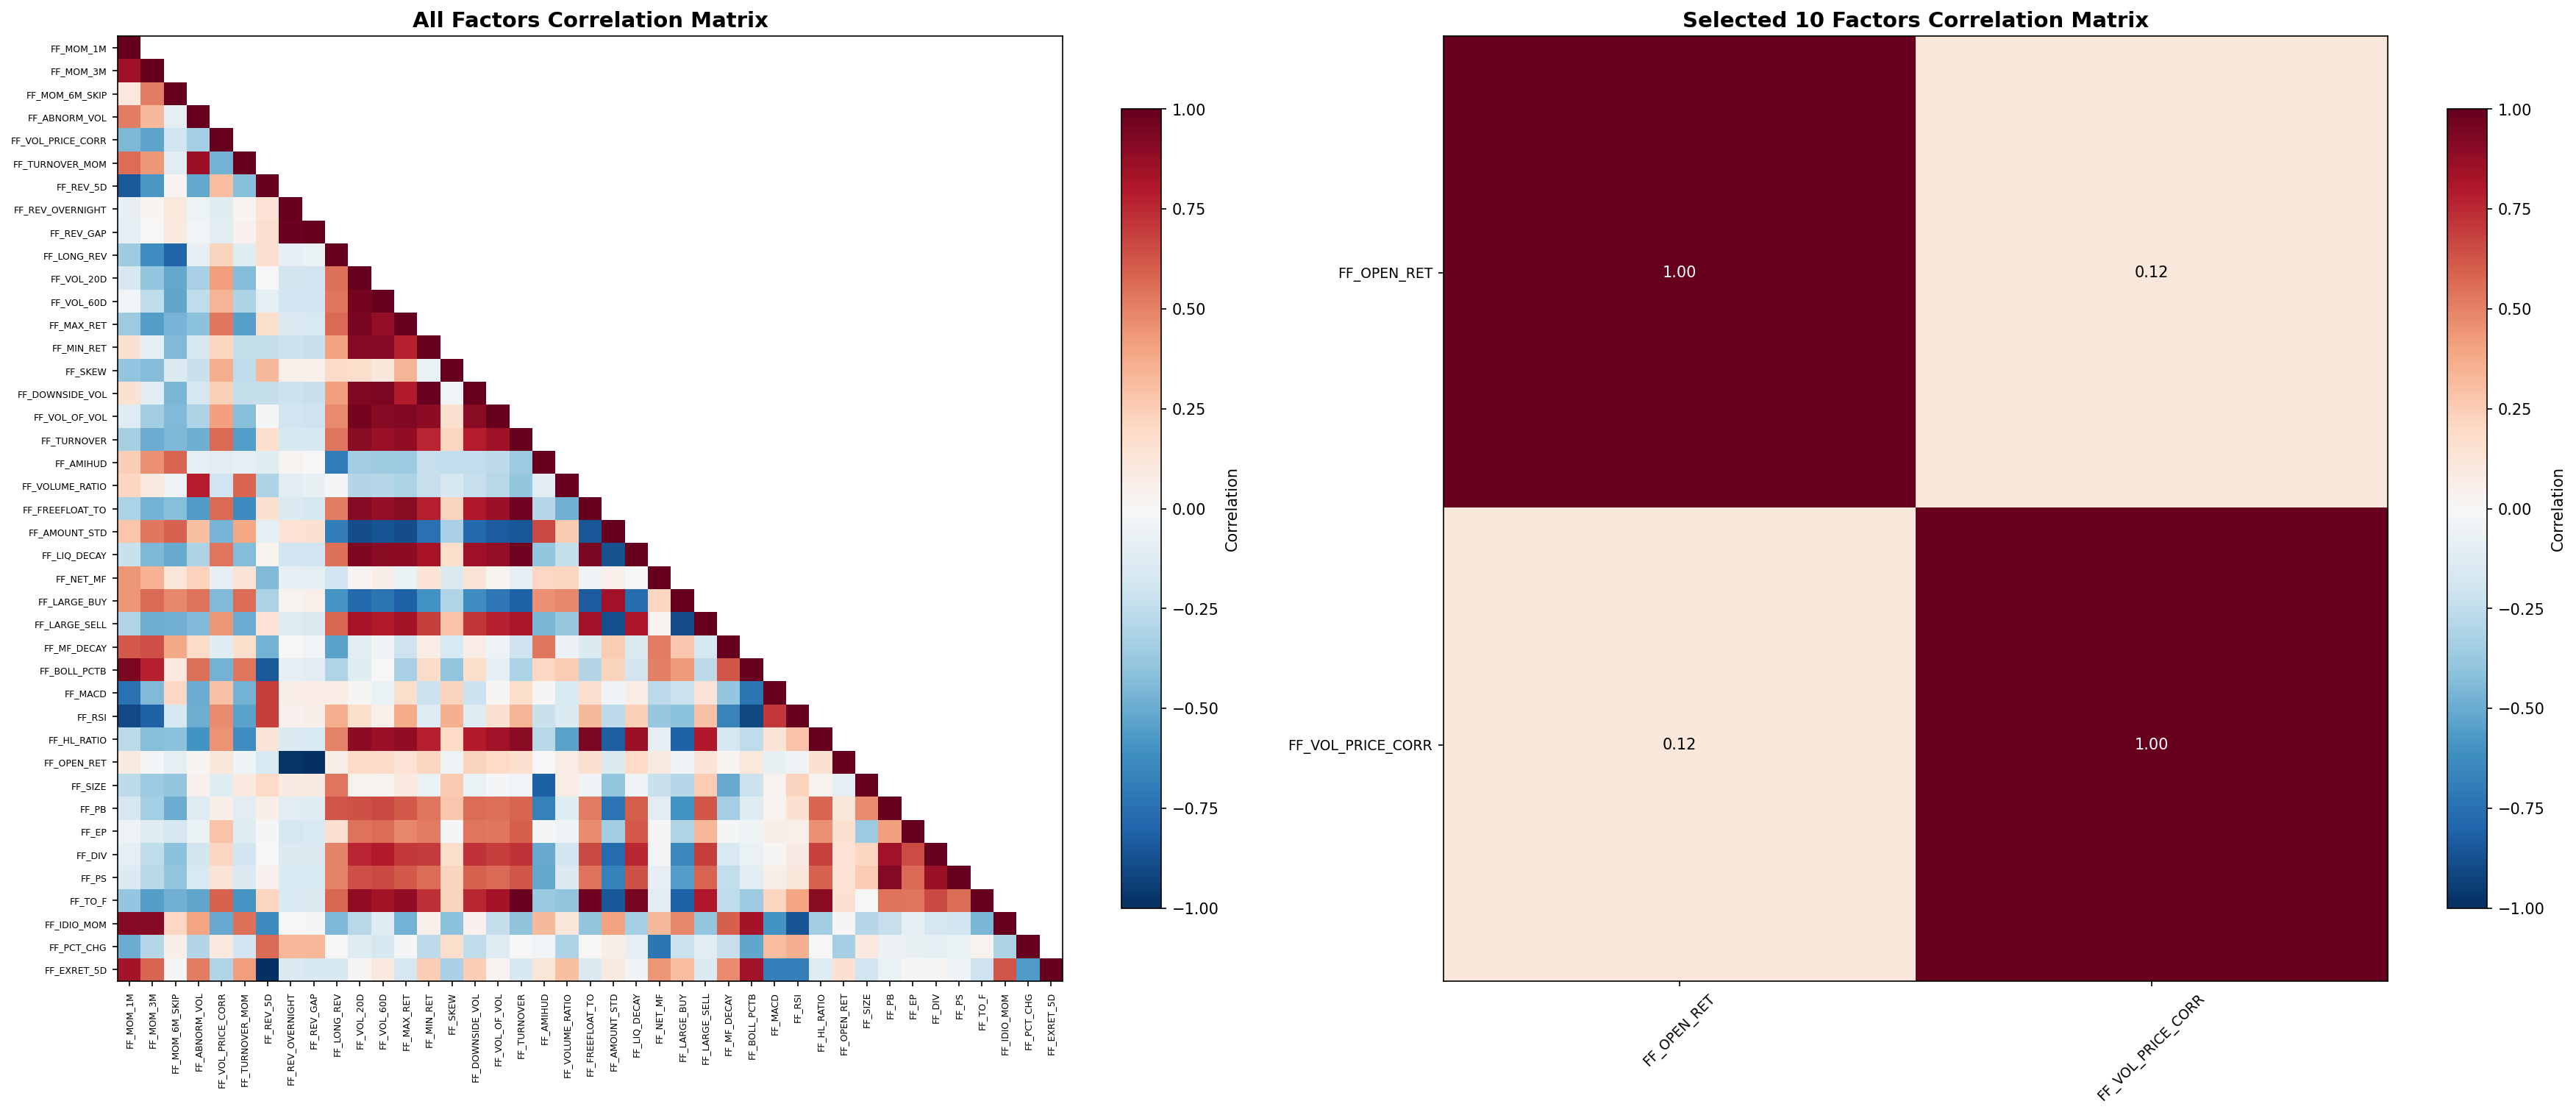
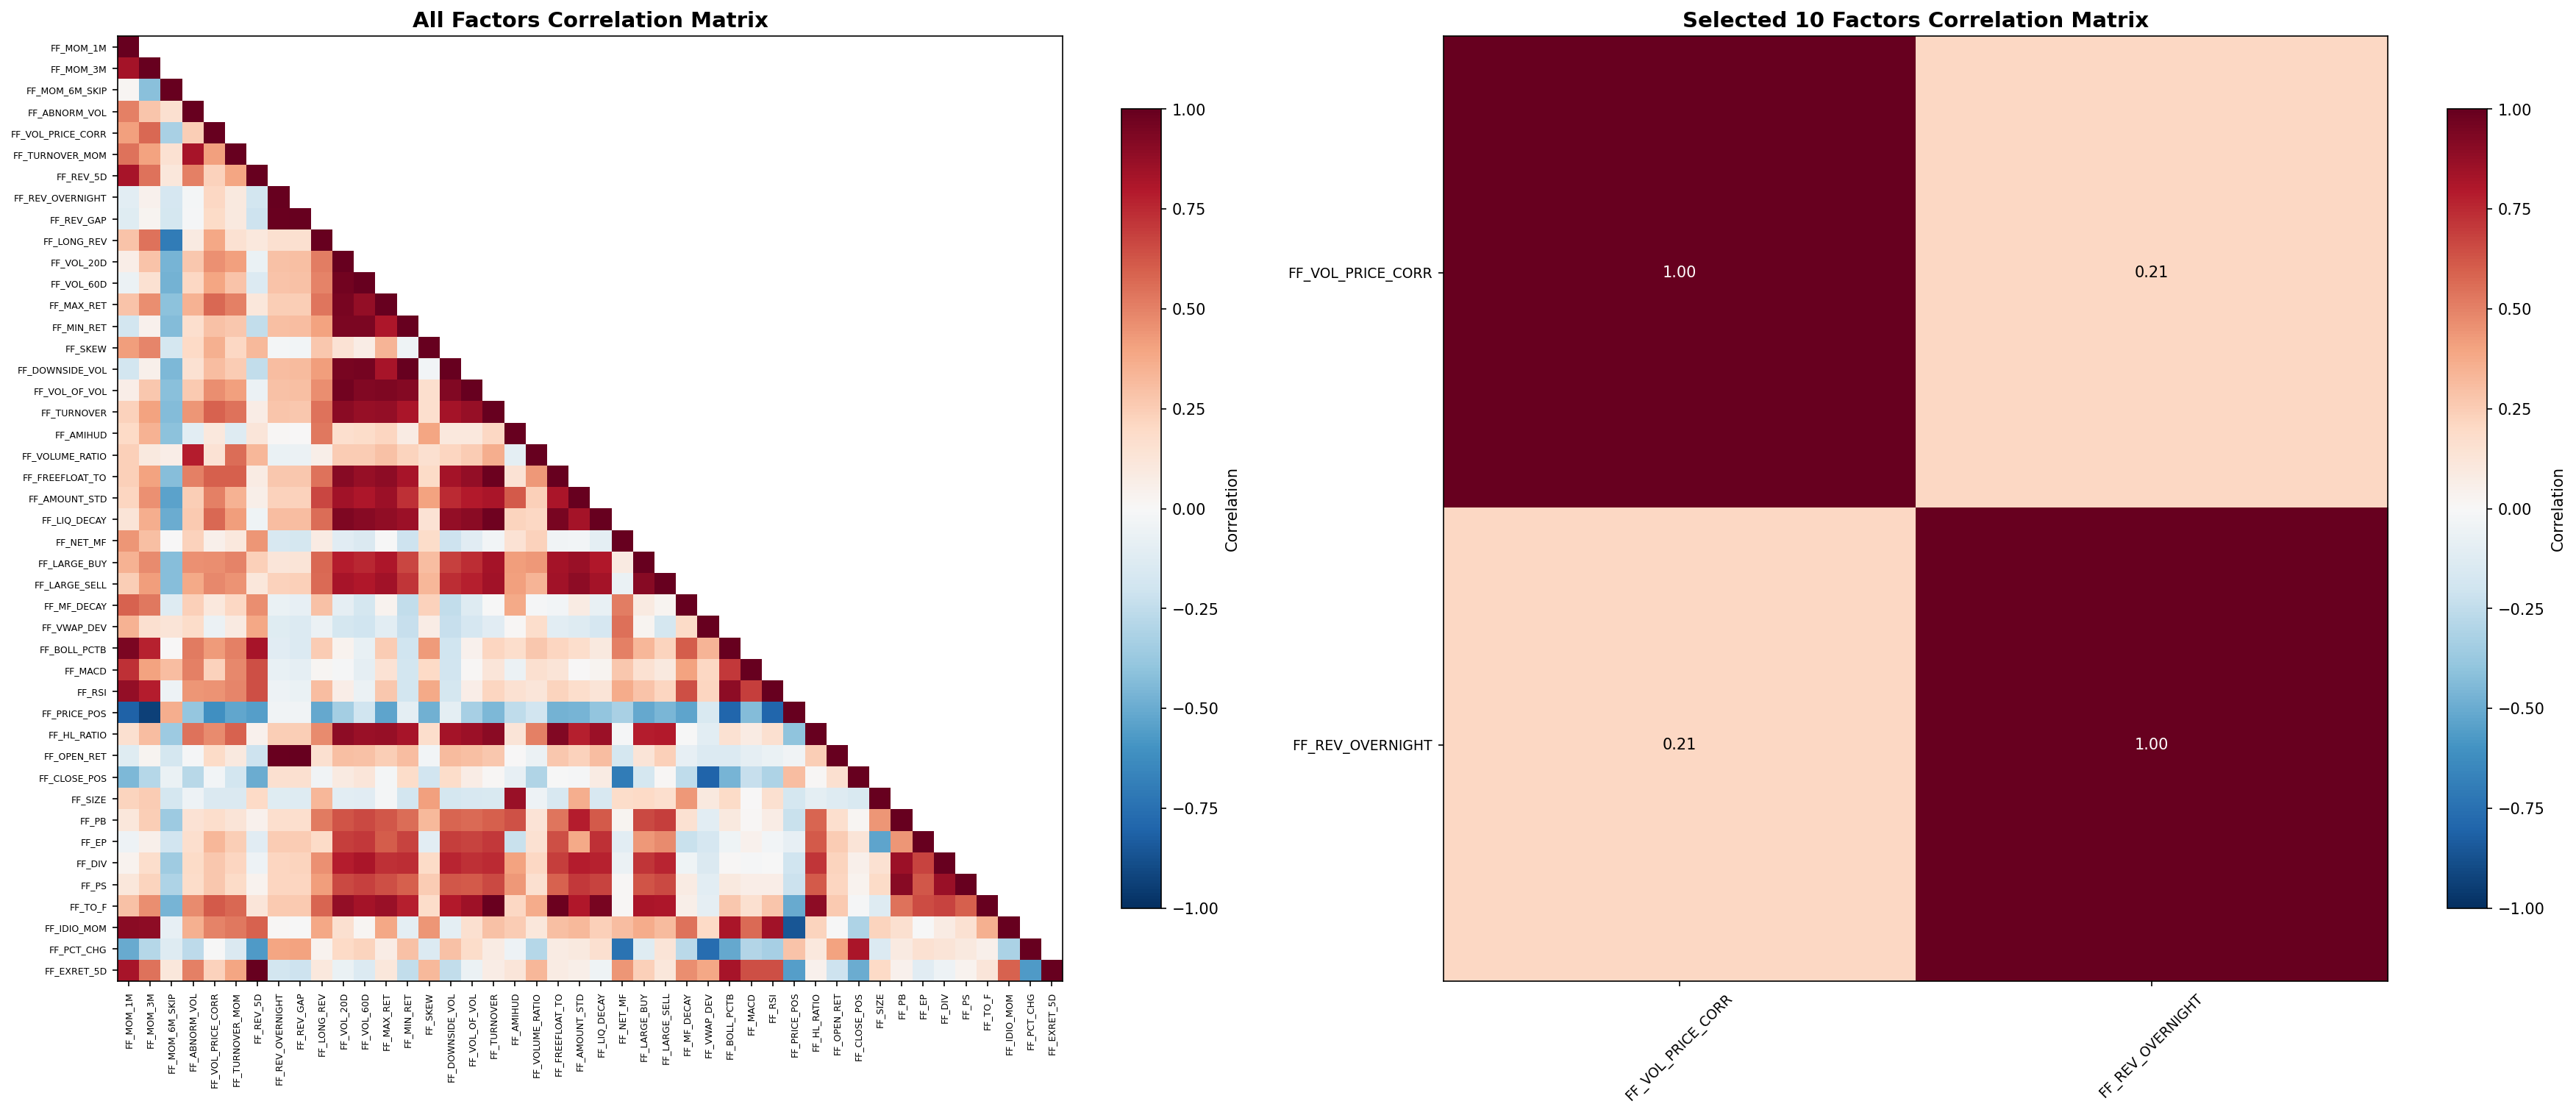
更新

diff --git a/group_1/02_factor_calculation/batch_compute.py b/group_1/02_factor_calculation/batch_compute.py
@@ -22,6 +22,7 @@ import matplotlib
 matplotlib.use('Agg')
 import matplotlib.pyplot as plt
 
+
 # ============================================================================
 # 2. 日志配置（控制台 + 文件）
 # ============================================================================
@@ -48,7 +49,6 @@ sys.path.insert(0, _PROJECT_ROOT)
 
 from feature import *
 from tools import read_json_config
-
 # ============================================================================
 # 4. 加载自定义算子
 #    使用 importlib 绕过目录名 "01_feature_engineering" 以数字开头的限制
@@ -93,8 +93,12 @@ else:
     path1000 = config['paths']['S1000']
 path1000_matrix = path1000 + 'matrix//'
 
-SD       = '2017-01-01'       # 数据起始日
-SD_PER   = '2017-12-31'       # 业绩评价起始日（避免前视偏差）
+SD       = '2021-01-01'       # 数据起始日
+SD_PER   = '2021-12-31'       # 业绩评价起始日（避免前视偏差）
+
+logger.info("=== 运行参数 ===")
+logger.info(f"  数据起始日 (SD)    : {SD}")
+logger.info(f"  评价起始日 (SD_PER): {SD_PER}")
 
 REQUIRED_FIELDS = {
     'totalRet', 'close', 'open', 'high', 'low', 'pre_close', 'vwap',
@@ -152,6 +156,7 @@ for v in dt.keys():
     dt[v][listed == 0] = np.nan
 
 logger.info(f"  数据日期范围: {list(dt['close'].index[[0, -1]])}")
+logger.info(f"  截止日期 (END)    : {dt['close'].index[-1].strftime('%Y-%m-%d')}")
 logger.info(f"  股票数量: {dt['close'].shape[1]}")
 
 # ============================================================================
@@ -162,18 +167,20 @@ def compute_all_factors(dt):
     f = {}  # 因子容器
 
     # ----- 动量类 (1-7) -----
-    f['FF_MOM_1M']        = ts_DecayExp(dt['totalRet'], 21)
-    f['FF_MOM_3M']        = ts_DecayExp(dt['totalRet'], 63)
-    f['FF_MOM_6M_SKIP']   = ts_DecayExp(ts_Delay(dt['totalRet'], 21), 126)
-    f['FF_RSTR_LIKE']     = ts_Sum(dt['totalRet'].shift(21), 252)
-    f['FF_ABNORM_VOL']    = safe_div(dt['vol'], ts_Mean(dt['vol'], 20)) - 1
+    # 中证1000小盘股中 1M/3M 动量实际表现为反转，翻号
+    f['FF_MOM_1M']        = -ts_DecayExp(dt['totalRet'], 21)
+    f['FF_MOM_3M']        = -ts_DecayExp(dt['totalRet'], 63)
+    f['FF_MOM_6M_SKIP']   =  ts_DecayExp(ts_Delay(dt['totalRet'], 21), 126)
+    f['FF_RSTR_LIKE']     =  ts_Sum(dt['totalRet'].shift(21), 252)
+    f['FF_ABNORM_VOL']    = 1 - safe_div(dt['vol'], ts_Mean(dt['vol'], 20))  # 换手骤降→看涨
     f['FF_VOL_PRICE_CORR']= -ts_Corr(dt['close'], dt['vol'], 20)
-    f['FF_TURNOVER_MOM']  = ts_ChgRate(dt['turnover_rate'], 21)
+    f['FF_TURNOVER_MOM']  = -ts_ChgRate(dt['turnover_rate'], 21)             # 换手减速→看涨
 
     # ----- 反转类 (8-11) -----
+    # 中证1000中 隔夜/开盘缺口表现为动量而非反转，翻号
     f['FF_REV_5D']        = -ts_Sum(dt['totalRet'], 5)
-    f['FF_REV_OVERNIGHT'] = -dt['overnightRet']
-    f['FF_REV_GAP']       = -safe_div(dt['open'] - ts_Delay(dt['close'], 1), ts_Delay(dt['close'], 1))
+    f['FF_REV_OVERNIGHT'] =  dt['overnightRet']                              # 隔夜动量
+    f['FF_REV_GAP']       =  safe_div(dt['open'] - ts_Delay(dt['close'], 1), ts_Delay(dt['close'], 1))  # 缺口动量
     f['FF_LONG_REV']      = -ts_Sum(dt['totalRet'], 252)
 
     # ----- 波动率类 (12-18) -----
@@ -187,25 +194,26 @@ def compute_all_factors(dt):
 
     # ----- 流动性类 (19-24) -----
     f['FF_TURNOVER']      = -dt['turnover_rate']
-    f['FF_AMIHUD']        = -ts_Amihud(dt['totalRet'], dt['amount'], 20)
-    f['FF_VOLUME_RATIO']  =  safe_div(dt['vol'], ts_Mean(dt['vol'], 5))
+    f['FF_AMIHUD']        =  ts_Amihud(dt['totalRet'], dt['amount'], 20)     # 非流动性溢价(原负号翻转)
+    f['FF_VOLUME_RATIO']  = -safe_div(dt['vol'], ts_Mean(dt['vol'], 5))     # 缩量→看涨
     f['FF_FREEFLOAT_TO']  = -safe_div(dt['vol'], dt['free_share'], 0)
-    f['FF_AMOUNT_STD']    =  ts_Stdev(dt['amount'], 20)
+    f['FF_AMOUNT_STD']    = -ts_Stdev(dt['amount'], 20)                      # 成交额低波→看涨
     f['FF_LIQ_DECAY']     =  ts_Decay(-dt['turnover_rate'], 20)
 
     # ----- 资金流类 (25-28) -----
+    # 小盘股资金流信号存在延迟/反向，翻号
     if 'net_mf_amount' in dt and 'amount' in dt:
-        f['FF_NET_MF']    = safe_div(dt['net_mf_amount'], dt['amount'] * 1000)
+        f['FF_NET_MF']    = -safe_div(dt['net_mf_amount'], dt['amount'] * 1000)
     has_mf = all(k in dt for k in ['buy_lg_vol', 'buy_elg_vol', 'vol'])
     if has_mf:
-        f['FF_LARGE_BUY'] =  safe_div(dt['buy_lg_vol'] + dt['buy_elg_vol'], dt['vol'], 0)
+        f['FF_LARGE_BUY'] = -safe_div(dt['buy_lg_vol'] + dt['buy_elg_vol'], dt['vol'], 0)
         f['FF_LARGE_SELL']= -safe_div(dt['sell_lg_vol'] + dt['sell_elg_vol'], dt['vol'], 0)
     if 'net_mf_amount' in dt:
-        f['FF_MF_DECAY']  = ts_Decay(safe_div(dt['net_mf_amount'], dt['amount'] * 1000), 20)
+        f['FF_MF_DECAY']  = ts_Decay(-safe_div(dt['net_mf_amount'], dt['amount'] * 1000), 20)
 
     # ----- 技术类 (29-36) -----
     f['FF_VWAP_DEV']      = -safe_div(dt['close'] - dt['vwap'], dt['vwap'])
-    f['FF_BOLL_PCTB']     =  ts_BBOLL_PctB(dt['close'], 20, 2)
+    f['FF_BOLL_PCTB']     = -ts_BBOLL_PctB(dt['close'], 20, 2)              # 低位反弹(原无负号)
     f['FF_MACD']          = -ts_MACD(dt['close'], 12, 26, 9)
     pos_ret = dt['totalRet'].clip(lower=0)
     neg_ret = (-dt['totalRet']).clip(lower=0)
@@ -227,9 +235,10 @@ def compute_all_factors(dt):
     f['FF_TO_F']          = -dt['turnover_rate_f']
 
     # ----- 特质类 (43-45) -----
-    f['FF_IDIO_MOM']      =  ts_Sum(dt['totalRet'], 20)
-    f['FF_PCT_CHG']       = -dt['pct_chg']
-    f['FF_EXRET_5D']      =  ts_Sum(dt['exRet'], 5)
+    # 短期特质收益表现为反转
+    f['FF_IDIO_MOM']      = -ts_Sum(dt['totalRet'], 20)
+    f['FF_PCT_CHG']       =  dt['pct_chg']                                  # 涨跌幅动量(原负号翻转)
+    f['FF_EXRET_5D']      = -ts_Sum(dt['exRet'], 5)
 
     return f
 